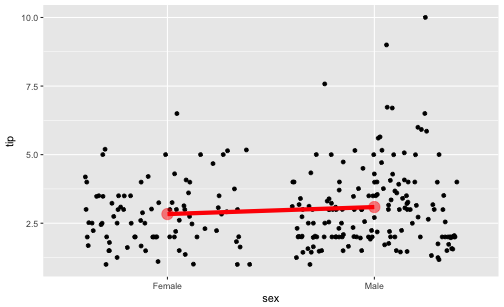
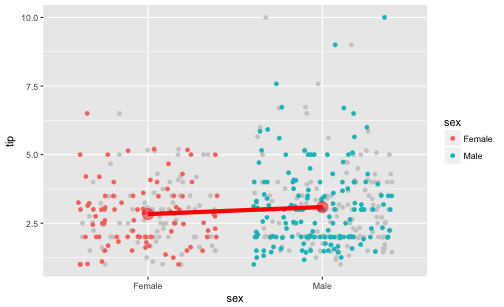
update storks

diff --git a/_posts/2017-05-17-storks.md b/_posts/2017-05-17-storks.md
@@ -47,13 +47,27 @@ Is there an assocation between sex and tip?
 
 ```r
 ggplot(tips) +
-  aes(x = sex, y = tip) +
-  geom_jitter() +
+  ggplot2::aes(x = sex, y = tip) +
+  geom_jitter(color = "grey80") +
+  geom_jitter(data = tips, aes(color = sex)) +
   stat_summary(fun.y = mean, color = "red", geom = "line", size = 2, group = 1) +
   stat_summary(fun.y = mean, color = "red", geom = "point", size = 5, group = 1, alpha = .5)
 ```
 
-<img src="https://sebastiansauer.github.io/images/2017-05-17/figure/unnamed-chunk-3-1.png" title="plot of chunk unnamed-chunk-3" alt="plot of chunk unnamed-chunk-3" width="80%" style="display: block; margin: auto;" />
+<img src="figure/unnamed-chunk-3-1.png" title="plot of chunk unnamed-chunk-3" alt="plot of chunk unnamed-chunk-3" width="80%" style="display: block; margin: auto;" />
+
+```r
+tips2 <- select(tips, -sex)
+
+tips %>% 
+  ggplot() +
+  aes(x = total_bill, y = tip) +
+  geom_point(data = tips2, color = "grey80") +
+  geom_point(aes(color = sex)) +
+  facet_wrap(~sex)
+```
+
+<img src="figure/unnamed-chunk-3-2.png" title="plot of chunk unnamed-chunk-3" alt="plot of chunk unnamed-chunk-3" width="80%" style="display: block; margin: auto;" />
 
 It appears that men do tip slightly more than women do. 
 
@@ -105,7 +119,7 @@ tips %>%
   geom_point()
 ```
 
-<img src="https://sebastiansauer.github.io/images/2017-05-17/figure/unnamed-chunk-6-1.png" title="plot of chunk unnamed-chunk-6" alt="plot of chunk unnamed-chunk-6" width="80%" style="display: block; margin: auto;" />
+<img src="figure/unnamed-chunk-6-1.png" title="plot of chunk unnamed-chunk-6" alt="plot of chunk unnamed-chunk-6" width="80%" style="display: block; margin: auto;" />
 
 Oh, clearly, some correlation is present between total_bill and tip.
 
@@ -184,9 +198,24 @@ tips %>%
   geom_point(alpha = .5)
 ```
 
-<img src="https://sebastiansauer.github.io/images/2017-05-17/figure/unnamed-chunk-11-1.png" title="plot of chunk unnamed-chunk-11" alt="plot of chunk unnamed-chunk-11" width="80%" style="display: block; margin: auto;" />
+<img src="figure/unnamed-chunk-11-1.png" title="plot of chunk unnamed-chunk-11" alt="plot of chunk unnamed-chunk-11" width="80%" style="display: block; margin: auto;" />
 
 We see that *females* do tip *more* than men when the 5 bins of `total_bill` are considered each in isolation. For 4 of the 5 bins we find that the median of the women is higher than that of the men. Only in the 5th, ie., highest bin, we found that men tip higher. However, this bin is slightly populated, so we may negligate it. In sum, looking at each bin of `total_bill` - women tip more than men do!
+
+Depicted differently:
+
+
+```r
+tips %>% 
+  ggplot() +
+  aes(x = total_bill, y = tip) +
+  geom_point(data = tips2, color = "grey80") +
+  geom_point(aes(color = sex)) +
+  facet_wrap(~sex)
+```
+
+<img src="figure/unnamed-chunk-12-1.png" title="plot of chunk unnamed-chunk-12" alt="plot of chunk unnamed-chunk-12" width="80%" style="display: block; margin: auto;" />
+
 
 # Dichotomize total_bill
 
@@ -211,10 +240,53 @@ tips %>%
   geom_point(alpha = .5)
 ```
 
-<img src="https://sebastiansauer.github.io/images/2017-05-17/figure/unnamed-chunk-13-1.png" title="plot of chunk unnamed-chunk-13" alt="plot of chunk unnamed-chunk-13" width="80%" style="display: block; margin: auto;" />
+<img src="figure/unnamed-chunk-14-1.png" title="plot of chunk unnamed-chunk-14" alt="plot of chunk unnamed-chunk-14" width="80%" style="display: block; margin: auto;" />
 
 
-We find that women seem to tip more than men, at least not less.
+We find that women seem to tip slightly more than men do; at least not less.
+
+# A Simpson case
+
+What happens can be considered a Simpson's paradox, based on the fact that men spend more than women do (higher `total_bill`). Even though they *tip* less or equally to women it appears they tip "in sum" (not considering `total_bill`) more simply because `total_bill` and `tip` are related.
+
+
+Let's dichotomize total_bill and see which sex group (females or males) occur more frequently.
+
+
+```r
+tips %>% 
+  mutate(bill_di = ntile(total_bill, n = 2),
+         bill_di_f = if_else(bill_di == 1, "low", "hi")) %>% 
+  count(sex, bill_di_f) %>% 
+ # gather(bill_group, n, -n) %>% 
+  ggplot() +
+  aes(x = sex, fill = bill_di_f, y = n) +
+  geom_col(position = "fill")
+```
+
+<img src="figure/unnamed-chunk-15-1.png" title="plot of chunk unnamed-chunk-15" alt="plot of chunk unnamed-chunk-15" width="80%" style="display: block; margin: auto;" />
+
+We see that the in the male group, high values occurr more frequently.
+
+
+# Path model
+
+`sex_male` has a positive effect on `total_bill`; and `total_bill` in turn on `tip`.
+But `sex_male` does *not* exert much of an influence on `tip` anymore, after controling for `total_bill` (in fact, the positive effect turned to a weak *negative* impact). 
+
+
+```r
+library(DiagrammeR)
+mermaid("
+graph LR
+  total_bill-->tip
+  sex_male-->total_bill
+  sex_male---tip
+ ")
+```
+
+<img src="figure/unnamed-chunk-16-1.png" title="plot of chunk unnamed-chunk-16" alt="plot of chunk unnamed-chunk-16" width="80%" style="display: block; margin: auto;" />
+
 
 # Conclusion
 
